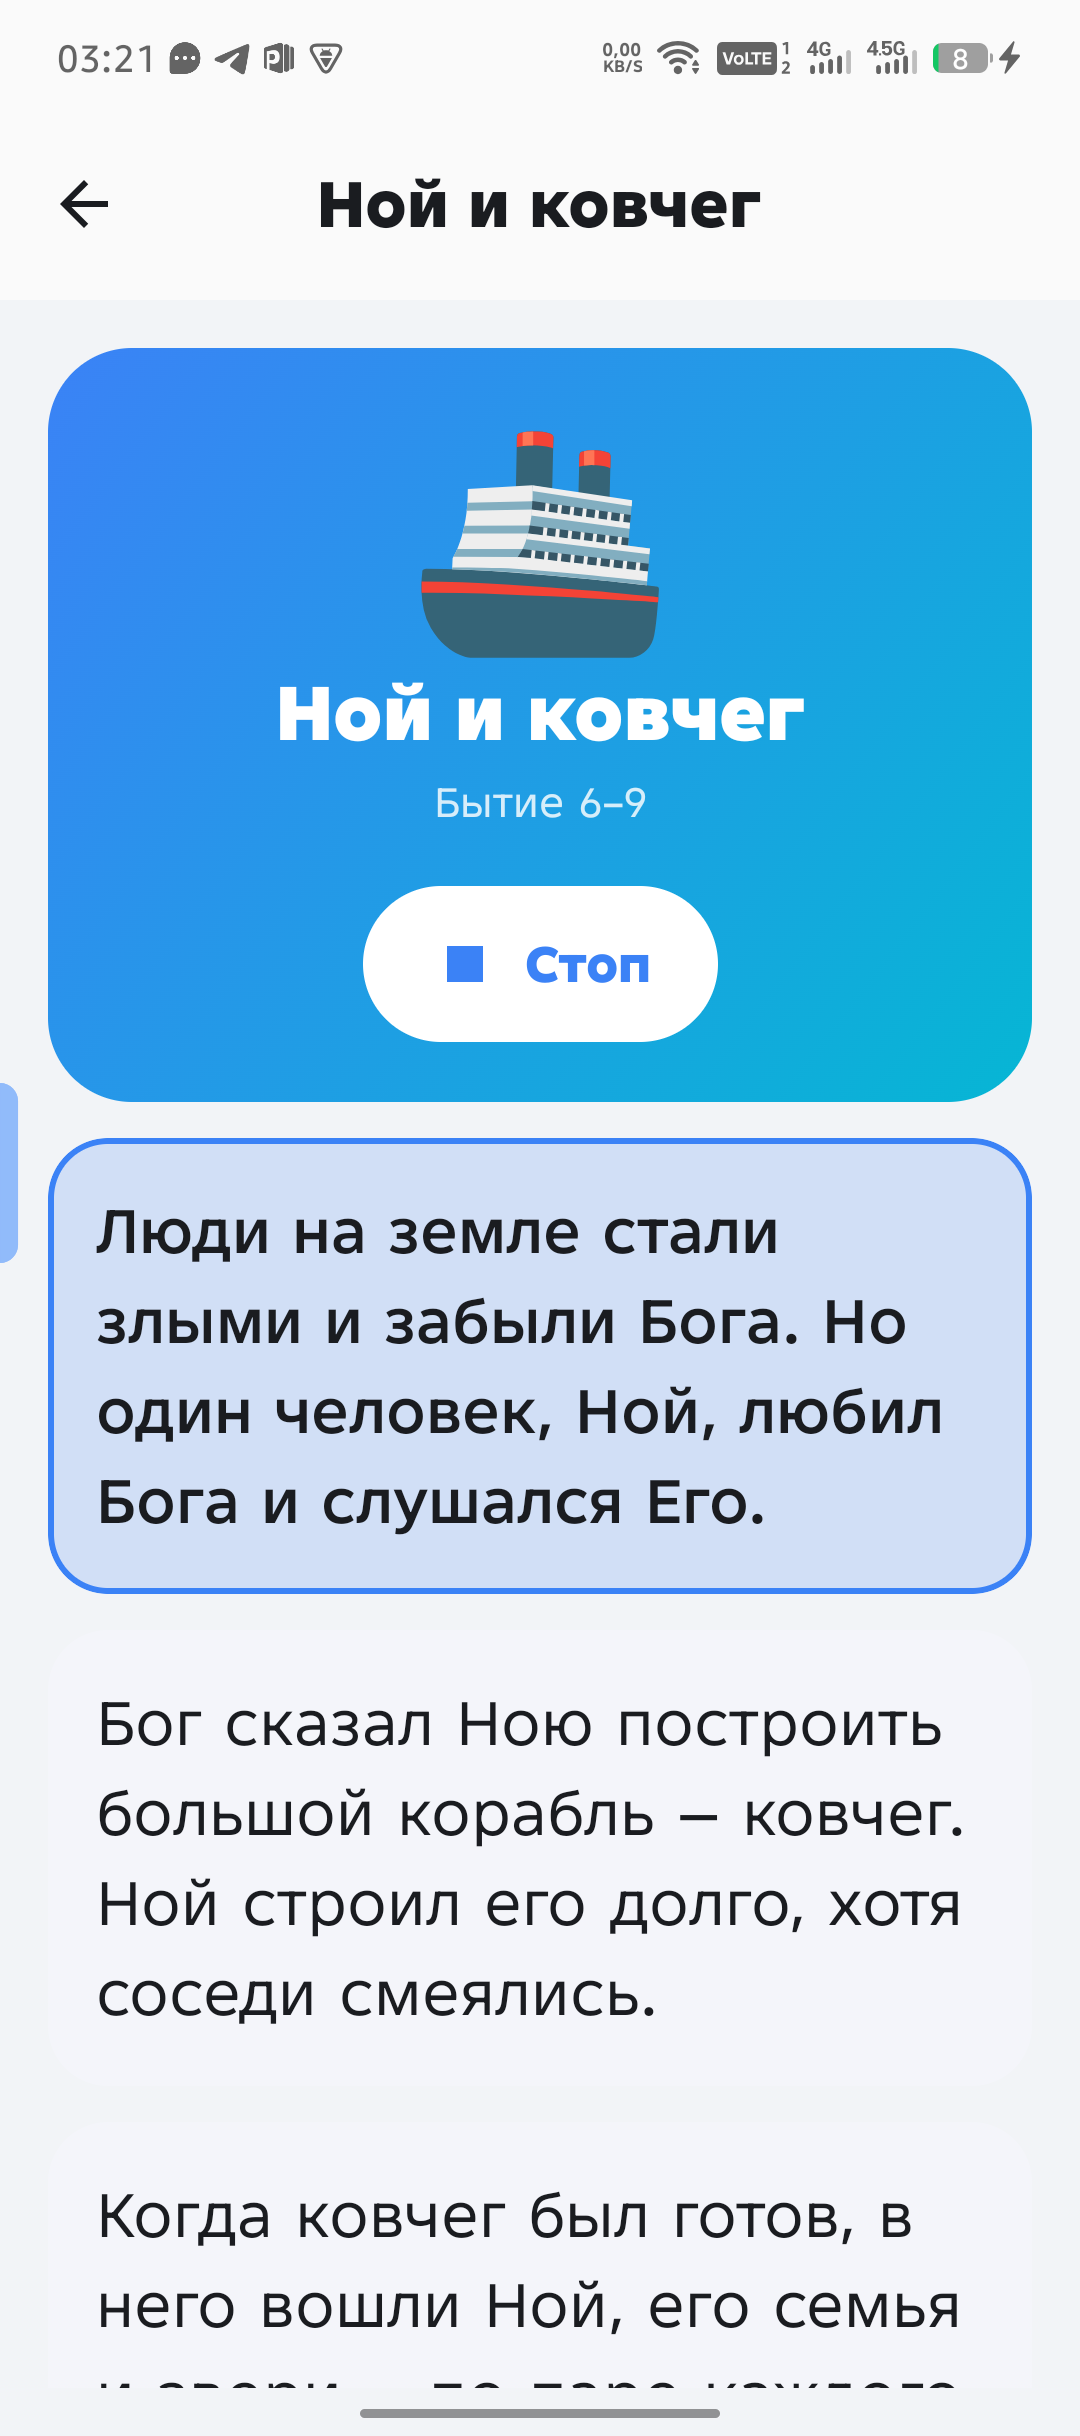
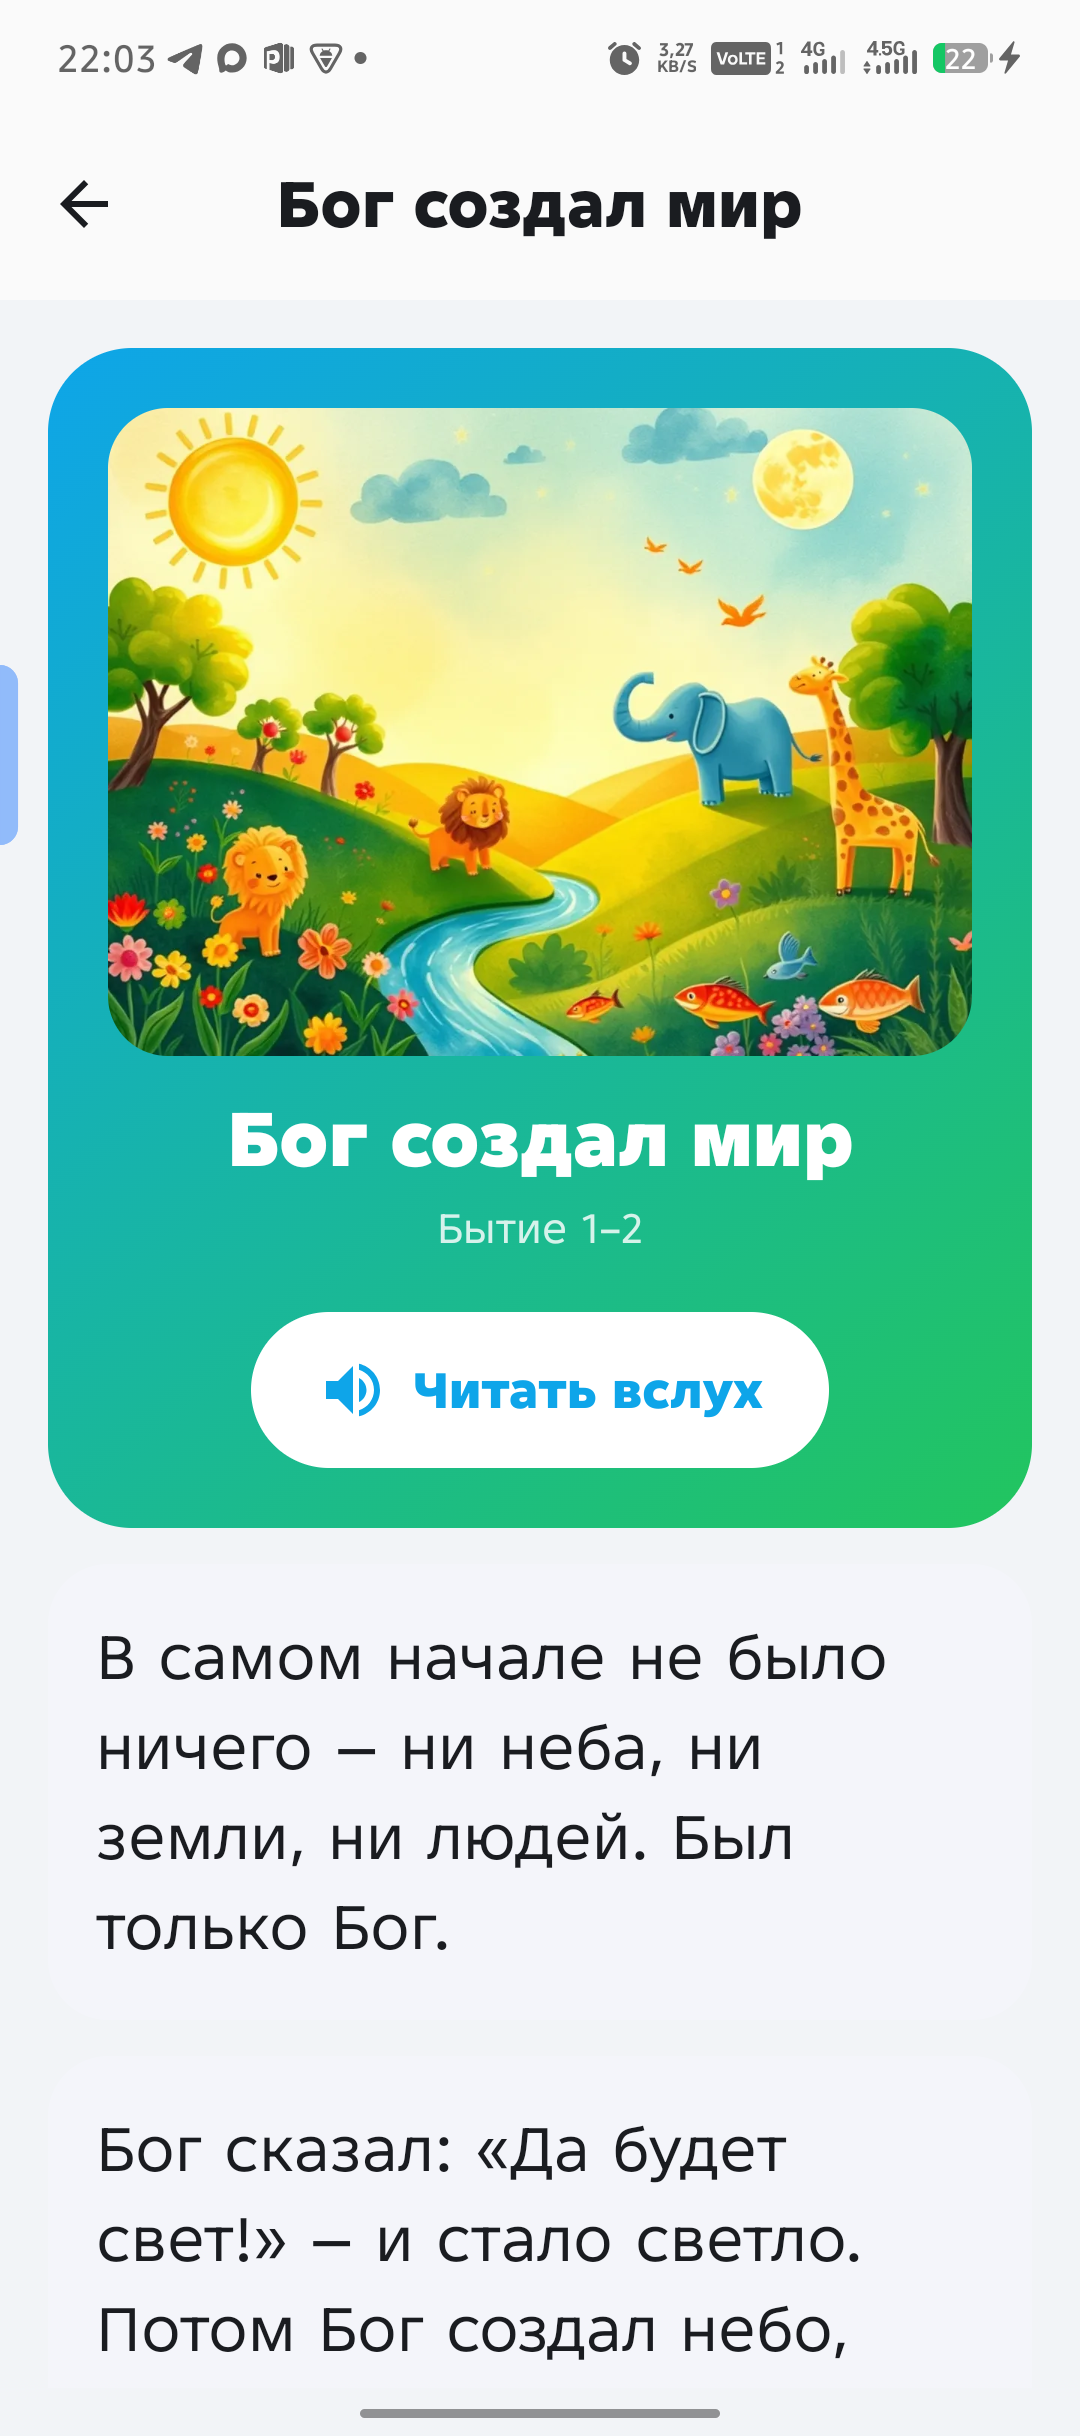
Библейские истории: сюжетная картинка у каждой истории в списке и в начале рассказа.

diff --git a/app/src/main/java/com/example/bible/ui/KidsStoriesScreens.kt b/app/src/main/java/com/example/bible/ui/KidsStoriesScreens.kt
@@ -6,6 +6,7 @@ import android.speech.tts.TextToSpeech
 import android.speech.tts.UtteranceProgressListener
 import android.widget.Toast
 import androidx.compose.animation.animateColorAsState
+import androidx.compose.foundation.Image
 import androidx.compose.foundation.background
 import androidx.compose.foundation.border
 import androidx.compose.foundation.clickable
@@ -55,12 +56,15 @@ import androidx.compose.ui.Modifier
 import androidx.compose.ui.draw.clip
 import androidx.compose.ui.graphics.Brush
 import androidx.compose.ui.graphics.Color
+import androidx.compose.ui.layout.ContentScale
 import androidx.compose.ui.platform.LocalContext
+import androidx.compose.ui.res.painterResource
 import androidx.compose.ui.text.font.FontWeight
 import androidx.compose.ui.text.style.TextAlign
 import androidx.compose.ui.unit.dp
 import androidx.compose.ui.unit.sp
 import androidx.lifecycle.compose.collectAsStateWithLifecycle
+import com.example.bible.R
 import com.example.bible.data.AzbukaProgressRepository
 import com.example.bible.data.KidsBibleStories
 import com.example.bible.data.KidsBibleStory
@@ -68,6 +72,31 @@ import kotlinx.coroutines.launch
 import java.util.Locale
 
 private fun KidsBibleStory.brush(): Brush = Brush.linearGradient(gradient.map { Color(it) })
+
+private fun kidsStoryImage(id: String): Int = when (id) {
+    "creation" -> R.drawable.kids_story_creation
+    "noah" -> R.drawable.kids_story_noah
+    "abraham" -> R.drawable.kids_story_abraham
+    "joseph" -> R.drawable.kids_story_joseph
+    "moses-sea" -> R.drawable.kids_story_moses_sea
+    "david" -> R.drawable.kids_story_david
+    "daniel" -> R.drawable.kids_story_daniel
+    "jonah" -> R.drawable.kids_story_jonah
+    "nativity" -> R.drawable.kids_story_nativity
+    "five-loaves" -> R.drawable.kids_story_five_loaves
+    "lost-sheep" -> R.drawable.kids_story_lost_sheep
+    else -> R.drawable.kids_story_creation
+}
+
+@Composable
+private fun KidsStoryIllustration(story: KidsBibleStory, modifier: Modifier = Modifier) {
+    Image(
+        painter = painterResource(kidsStoryImage(story.id)),
+        contentDescription = story.title,
+        modifier = modifier,
+        contentScale = ContentScale.Crop,
+    )
+}
 
 @OptIn(ExperimentalMaterial3Api::class)
 @Composable
@@ -127,7 +156,13 @@ fun KidsStoriesScreen(
                         .padding(14.dp),
                 ) {
                     Box(Modifier.fillMaxWidth()) {
-                        Text(story.emoji, fontSize = 48.sp, modifier = Modifier.align(Alignment.CenterStart))
+                        KidsStoryIllustration(
+                            story,
+                            Modifier
+                                .fillMaxWidth()
+                                .aspectRatio(4f / 3f)
+                                .clip(RoundedCornerShape(16.dp)),
+                        )
                         if (done) {
                             Icon(
                                 Icons.Filled.CheckCircle,
@@ -135,7 +170,11 @@ fun KidsStoriesScreen(
                                 tint = Color.White,
                                 modifier = Modifier
                                     .align(Alignment.TopEnd)
-                                    .size(26.dp),
+                                    .padding(6.dp)
+                                    .clip(CircleShape)
+                                    .background(Color(0xCC111827))
+                                    .padding(3.dp)
+                                    .size(20.dp),
                             )
                         }
                     }
@@ -245,7 +284,14 @@ fun KidsStoryScreen(
                         .padding(20.dp),
                     horizontalAlignment = Alignment.CenterHorizontally,
                 ) {
-                    Text(story.emoji, fontSize = 72.sp)
+                    KidsStoryIllustration(
+                        story,
+                        Modifier
+                            .fillMaxWidth()
+                            .aspectRatio(4f / 3f)
+                            .clip(RoundedCornerShape(20.dp)),
+                    )
+                    Spacer(Modifier.height(12.dp))
                     Text(
                         story.title,
                         color = Color.White,

diff --git a/README.md b/README.md
@@ -145,11 +145,15 @@
 
 ### 👨👩👧 Детям — с радостью, не «для галочки»
 
-Алфавит, цифры, цвета, животные, растения, свои альбомы с фото и звуком — и **игры**: крестики-нолики, шашки, го, водопровод, «Найди цвет», «Найди фигуру», «Сколько углов», «Сосчитай», «Где больше?», «Собери слово».
+Алфавит, цифры, цвета, животные, растения, свои альбомы с фото и звуком, **библейские истории с сюжетными картинками** — и **игры**: крестики-нолики, шашки, го, водопровод, «Найди цвет», «Найди фигуру», «Сколько углов», «Сосчитай», «Где больше?», «Собери слово».
 
 | Раздел «Детям» | Игры |
 |:---:|:---:|
 | ![Обучение и альбомы](docs/screenshots/09-kids-v19.png) | ![Крестики-нолики, шашки, го…](docs/screenshots/31-kids-games-v19.png) |
+
+| Библейские истории | История |
+|:---:|:---:|
+| ![Сюжетная картинка у каждой истории](screenshots/kids-stories.png) | ![Картинка в начале рассказа](screenshots/kids-story.png) |
 
 | Азбука: песочница | Азбука: «Собери слово» | Цифры: песочница |
 |:---:|:---:|:---:|
